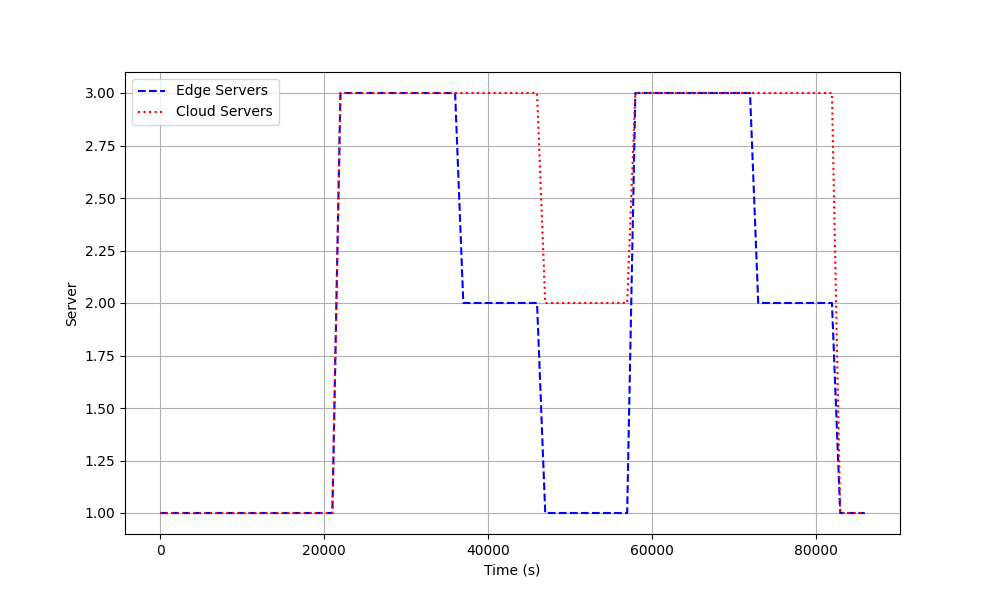
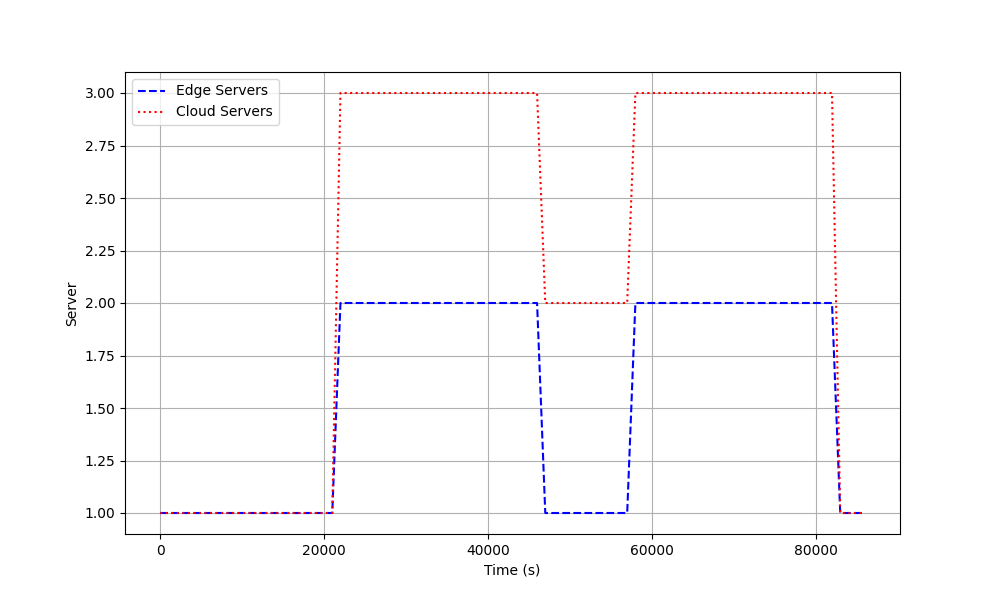
plot

diff --git a/main.py b/main.py
@@ -133,6 +133,7 @@ def run_pc():
 
     os.makedirs(path, exist_ok=True)
 
+
     with open(f"{path}{file_name}", 'w', newline='', encoding='utf-8') as csvfile:
         writer = csv.DictWriter(csvfile, fieldnames=["Pc", "E_wait"])
         writer.writeheader()
@@ -156,12 +157,14 @@ def run_pc():
     plt.figure(figsize=(8, 5))
     plt.plot(p_c, E_wait, marker='o', linestyle='-', color='b', label='E wait time')
 
-    plt.axhline(y=3, color='r', linestyle='--')
-
     plt.title('E wait times')
     plt.xlabel('Pc')
     plt.ylabel('E wait time')
-    plt.title(f'E wait times with lambda = {cs.LAMBDA}')
+    if(sim_type == "scalability" or sim_type == "better_scalability"):
+        plt.title(f'E wait times')
+    else:
+        plt.title(f'E wait times with lambda = {cs.LAMBDA}')
+        plt.axhline(y=3, color='r', linestyle='--')
     plt.grid(True)
 
     output_path = os.path.join(path, plot_name)

diff --git a/utils/constants.py b/utils/constants.py
@@ -1,10 +1,10 @@
 LAMBDA = 1.55 # mean arrival time [secondo/job]
 
-EDGE_SERVERS = 2
-CLOUD_SERVERS = 2
+EDGE_SERVERS = 1
+CLOUD_SERVERS = 1
 
-EDGE_SERVERS_MAX = 2
-CLOUD_SERVERS_MAX = 2
+EDGE_SERVERS_MAX = 3
+CLOUD_SERVERS_MAX = 3
 
 def increment_edge():
     global EDGE_SERVERS
